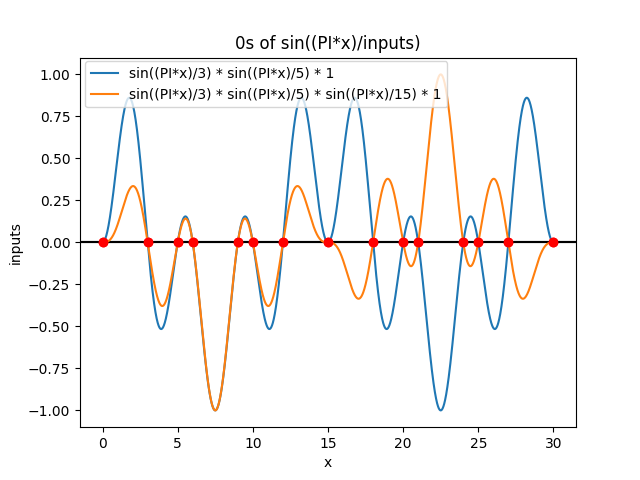
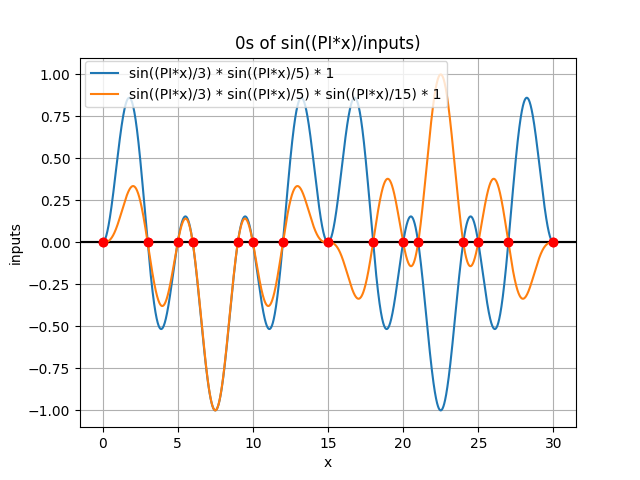
Fixed Grids.

diff --git a/Project1/Project1Graphs.py b/Project1/Project1Graphs.py
@@ -32,7 +32,6 @@ def zeros(range):
 def graphUpdate():
     ax.set(xlabel='x', ylabel='inputs', title='0s of sin((PI*x)/inputs)')
     plt.axhline(0, color='black')
-    plt.grid()
     xAxis = np.arange(0.0, xRange,0.01)
     yAxis = graphWaves(xAxis)
     ax.plot(xAxis, yAxis, label = graphLabels(waveLabel))
@@ -40,6 +39,8 @@ def graphUpdate():
     zeros(xRange+1)
 
 # graphs
+plt.grid()
+
 graphUpdate()
 fig.savefig("images/Euler1Graph1.png")
 
@@ -49,6 +50,7 @@ fig.savefig("images/Euler1Graph2.png")
 
 plt.clf()
 fig, ax = plt.subplots()
+plt.grid()
 
 inputs = [5,7]
 graphUpdate()
